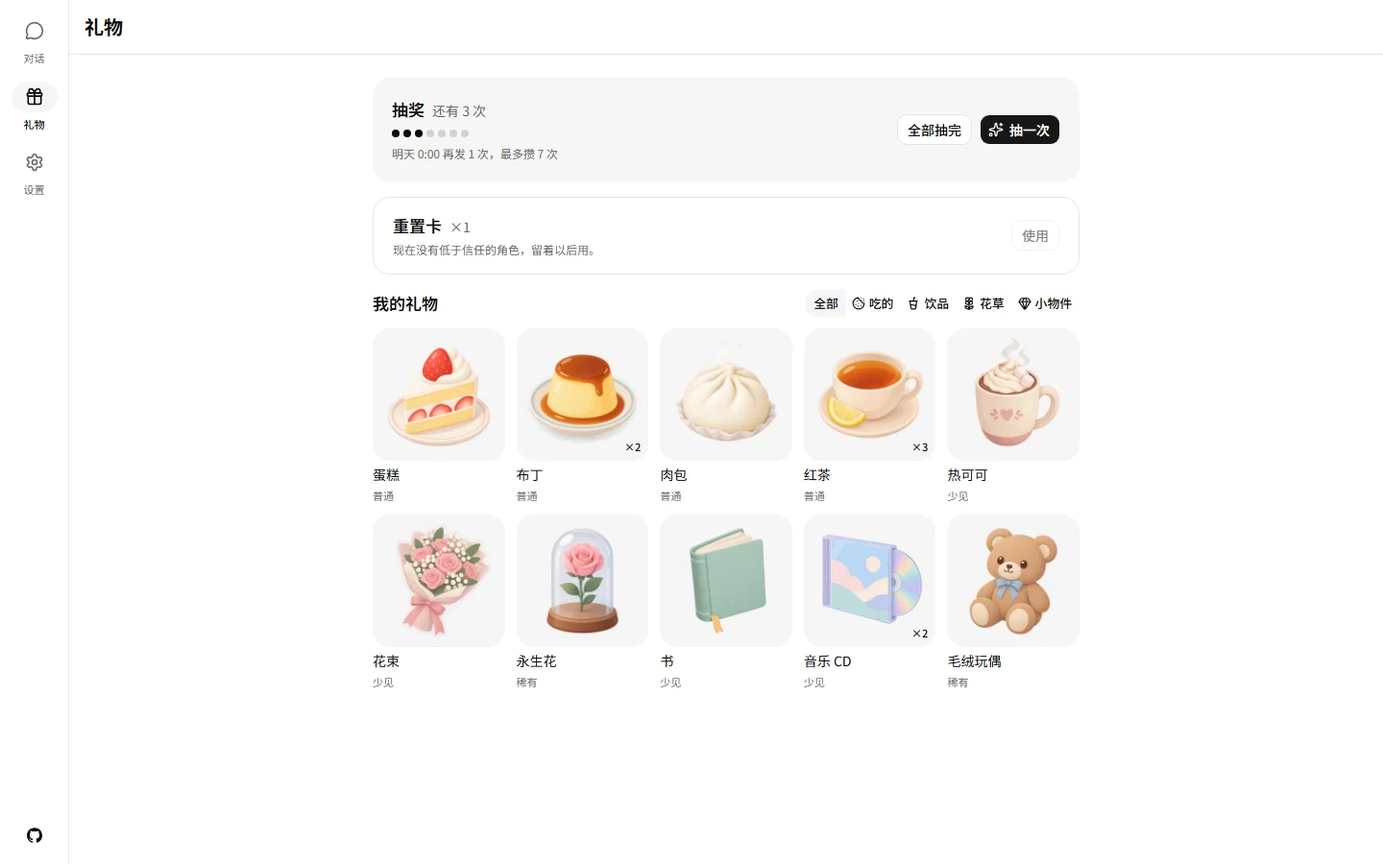
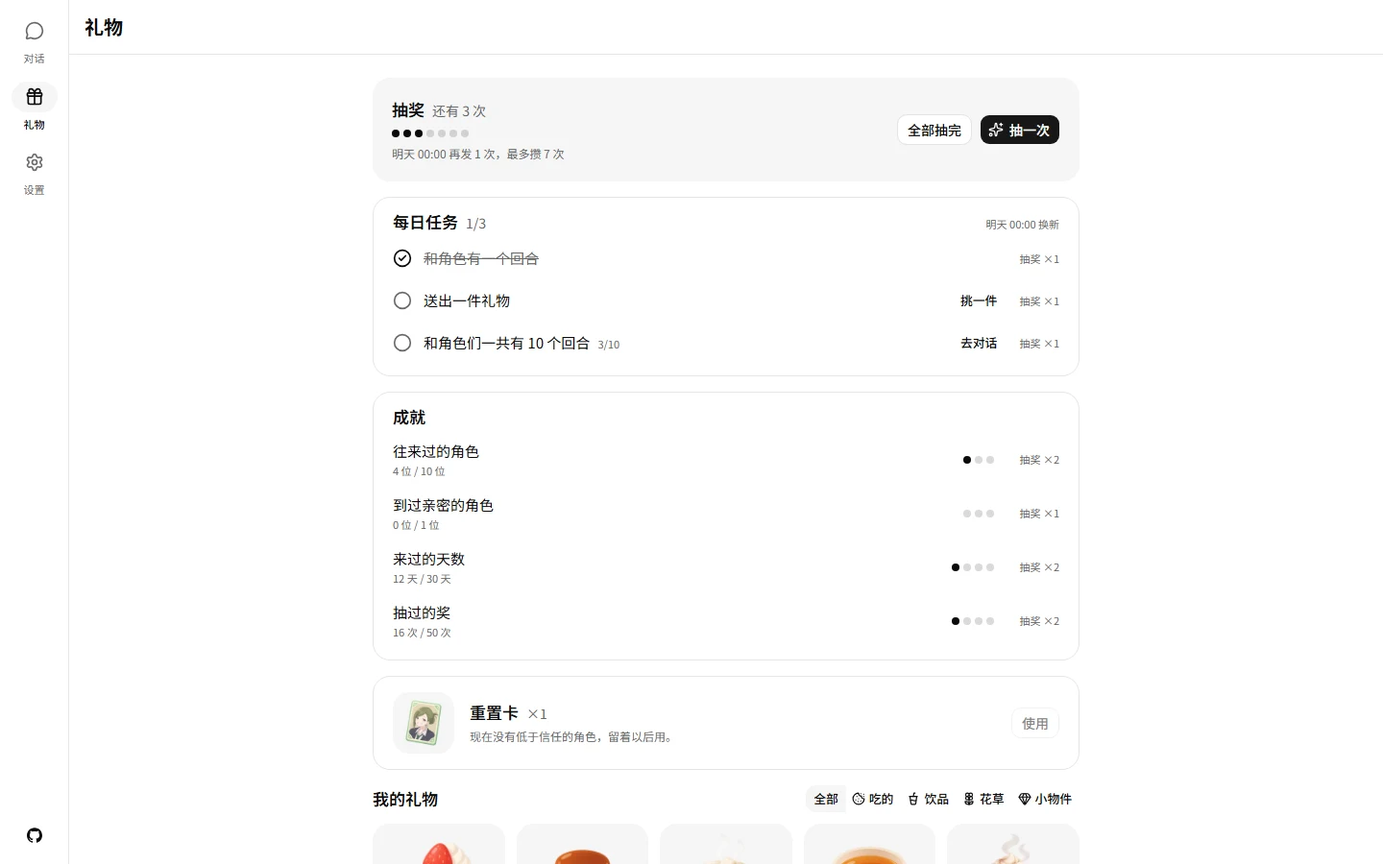
docs(achievements): 隐私政策、使用条款、配置和部署指南、数据包格式、README 三语写上成就，配置页「好感度和礼物」卡说明补一句，词汇表补上线补算的例外；readme-media 给礼物页写固定的每日任务和合起来的成就、拍前记成看过，重拍 gifts.webp；eidolon serve 把 eidolon.happenings 接到 stderr，补算那一行进日志；跨票验收（补算后的点、挂断后时长阶段的点）通过，关票 07（票 07）

diff --git a/frontend/src/i18n/zh.ts b/frontend/src/i18n/zh.ts
@@ -1345,7 +1345,7 @@ export const zh = {
         },
         affinity: {
           title: "好感度和礼物",
-          hint: "需要判断模型：每个回合由它判断制作人的话让好感度怎样变化。关掉时不判断、不显示，冷却也不拦人，每日任务不出现也不记进度；已有的好感度原样留着，再打开接着用。保存后从下一个回合起生效，进行中的通话也是。",
+          hint: "需要判断模型：每个回合由它判断制作人的话让好感度怎样变化。关掉时不判断、不显示，冷却也不拦人，每日任务和成就不出现也不记进度；已有的好感度原样留着，再打开接着用。保存后从下一个回合起生效，进行中的通话也是。",
         },
         reach_outs: {
           title: "搭话",
@@ -1921,11 +1921,11 @@ export const zh = {
           { term: "制作人档案", text: "你设置的称呼、性别、时区和生日（只有月和日）。" },
           { term: "好感度", text: "每位角色对你各有一份好感度，以及有没有在冷却、什么时候解除。你只看得到档位，看不到数值。它不能单独删除，删除记忆也不影响它；删除全部数据时一起删除。" },
           { term: "礼物", text: "你背包里的礼物、重置卡，还有抽奖次数。删除全部数据时一起删除。" },
-          { term: "每日任务", text: "今天每日任务做到哪了，以及做完时抽奖次数的到账记录。删除历史对话不影响它，也不进数据包；删除全部数据时一起删除。" },
+          { term: "每日任务和成就", text: "今天每日任务做到哪了，每个成就的累计进度和解锁了哪些阶段，以及它们给的抽奖次数和重置卡的到账记录。删除历史对话不影响它们，也不进数据包；删除全部数据时一起删除。" },
           { term: "搭话", text: "你在设置里的「搭话」开关，以及你看过哪些搭话。" },
           { term: "自带密钥", text: "如果你填了自己的 API key，它只保存在你的浏览器里，我们不保存；每次回合或通话时随请求发给服务器，只在处理期间留在内存里，不写入数据库、日志或备份。" },
           { term: "登录状态和限额的计数", text: "让你在各台设备上保持登录的状态，以及最近 24 小时内你发起回合和通话的次数、收到照片的张数（用于限额）。" },
-          { term: "运行记录", text: "每个回合、每次通话和每次搭话是和哪位角色、什么时候、结果如何（成功、失败、被拒绝等）、通话的时长和结束原因（包括角色挂断），判断模型对每个回合的判断结果（这句话让角色开心、不舒服还是没有影响，有没有判为不该说的话或操纵，有没有因此进入冷却），以及其中用了哪些服务和模型、是否用了自带密钥、用量（例如 token 数）、有没有出错和花了多久；角色发照片时，还记下描述照片的 tag 里有几个因为越界被剥掉、各属于哪一类（不记 tag 本身）；搭话还记下你有没有回；做完一项每日任务时，记下是哪一项。不含你说的话和角色的回复，不记密钥，也不记自带 LLM 的服务地址和模型名。满 90 天自动删除。" },
+          { term: "运行记录", text: "每个回合、每次通话和每次搭话是和哪位角色、什么时候、结果如何（成功、失败、被拒绝等）、通话的时长和结束原因（包括角色挂断），判断模型对每个回合的判断结果（这句话让角色开心、不舒服还是没有影响，有没有判为不该说的话或操纵，有没有因此进入冷却），以及其中用了哪些服务和模型、是否用了自带密钥、用量（例如 token 数）、有没有出错和花了多久；角色发照片时，还记下描述照片的 tag 里有几个因为越界被剥掉、各属于哪一类（不记 tag 本身）；搭话还记下你有没有回；做完一项每日任务时，记下是哪一项；解锁一个成就阶段或集齐一位角色时，记下是哪个阶段、哪位角色。不含你说的话和角色的回复，不记密钥，也不记自带 LLM 的服务地址和模型名。满 90 天自动删除。" },
           { term: "备份", text: "以上数据每天加密备份一次，存放在部署者的私有云存储里，每份保留 30 天，用于服务器出故障时恢复。" },
         ],
         notes: [],
@@ -1947,7 +1947,7 @@ export const zh = {
         title: "管理者能看到什么",
         items: [
           { term: "能看到", text: "你的登录方式（Google 或 GitHub、显示名和邮箱）、注册和最后活跃的时间、最近 24 小时到 30 天的回合和通话次数（包括被限额拒绝的）、你的用量里有多少用的是自带密钥、是否被封禁（以及封禁时管理者写的备注），以及有没有单独的限额。" },
-          { term: "看不到", text: "你和角色的对话、她发给你的照片和描述照片的 tag、角色记下的记忆、你的制作人档案，各位角色对你的好感度和冷却，以及你的礼物、重置卡、抽奖次数和每日任务；好感度只能看到所有用户合起来的统计，管理者也不能调整某一位用户的好感度。" },
+          { term: "看不到", text: "你和角色的对话、她发给你的照片和描述照片的 tag、角色记下的记忆、你的制作人档案，各位角色对你的好感度和冷却，以及你的礼物、重置卡、抽奖次数、每日任务和成就；好感度只能看到所有用户合起来的统计，管理者也不能调整某一位用户的好感度。" },
         ],
         notes: [
           "管理者是部署者指定的少数几位用户，在只有他们能进入的后台里管理这个网站。运行记录还会汇总成全站的统计，用来查看各项服务是否正常、有多少人在用、大约花了多少钱。",
@@ -1980,7 +1980,7 @@ export const zh = {
       { term: "不保证一直可用", text: "服务由个人部署和负担费用，可能随时调整限额、暂停或关闭，数据也可能因故丢失。" },
       { term: "年满 13 岁", text: "你需要年满 13 岁才能使用。" },
       { term: "不要滥用", text: "请不要用它做违法的事，或刻意刷用量；管理者可以封禁这样的用户，或单独收紧他的限额。" },
-      { term: "玩法：好感度、冷却和礼物", text: "角色对你的好感度会随你说的话升降：好好对她，她会更亲近你；冒犯她，她会疏远你，好感度跌到底时她会暂时不和你说话，这段时间叫冷却，通话中她也会挂断电话；一次通话里说了两次不该说的话（性骚扰、辱骂、威胁等），她同样会挂断。这些都是玩法的一部分，由 AI 根据你说的话判断，可能误判。冷却最长 24 小时，到时自动解除，不是封禁，也不是限额；管理者不会人工调整任何人的好感度或冷却。礼物、重置卡和抽奖次数只是应用里的玩法物品，没有现金价值，不能转让或交易；服务调整或关闭时，它们可能随之消失。每日任务给的抽奖次数也一样；任务的内容和奖励可能调整，已经得到的不收回。" },
+      { term: "玩法：好感度、冷却和礼物", text: "角色对你的好感度会随你说的话升降：好好对她，她会更亲近你；冒犯她，她会疏远你，好感度跌到底时她会暂时不和你说话，这段时间叫冷却，通话中她也会挂断电话；一次通话里说了两次不该说的话（性骚扰、辱骂、威胁等），她同样会挂断。这些都是玩法的一部分，由 AI 根据你说的话判断，可能误判。冷却最长 24 小时，到时自动解除，不是封禁，也不是限额；管理者不会人工调整任何人的好感度或冷却。礼物、重置卡和抽奖次数只是应用里的玩法物品，没有现金价值，不能转让或交易；服务调整或关闭时，它们可能随之消失。每日任务和成就给的抽奖次数和重置卡也一样；任务和成就的内容、门槛和奖励可能调整，已经得到的不收回。" },
       { term: "自带密钥", text: "你填进来的自己的 API key（LLM、语音合成、语音识别、生图都算），由你自己遵守那项服务的条款，包括它对年龄和用途的要求。" },
     ],
     seePrivacy: "数据怎样保存和处理，见{privacy}。",

diff --git a/backend/src/eidolon/__main__.py b/backend/src/eidolon/__main__.py
@@ -163,11 +163,12 @@ def _serve() -> int:
 
     # Which settings the admin console overrides, for a deployer wondering why `.env`'s
     # did not take (ADR-0013), and what the backups begun from it did, which is not in
-    # `logs/db-backup.log`, and the photo tags the tag table does not know, for the deployer to
-    # add to the rewrite table; nothing configures the root logger to show any of them.
+    # `logs/db-backup.log`, the photo tags the tag table does not know, for the deployer to
+    # add to the rewrite table, and what the achievements' launch gave (deploy.md「升级」);
+    # nothing configures the root logger to show any of them.
     to_stderr = logging.StreamHandler()
     to_stderr.setFormatter(logging.Formatter("%(levelname)s: %(message)s"))
-    for name in ["eidolon.live_config", "eidolon.backup", "eidolon.photo_prompt"]:
+    for name in ["eidolon.live_config", "eidolon.backup", "eidolon.photo_prompt", "eidolon.happenings"]:
         logging.getLogger(name).addHandler(to_stderr)
         logging.getLogger(name).setLevel(logging.INFO)
 

diff --git a/docs/configuration.ja.md b/docs/configuration.ja.md
@@ -342,7 +342,8 @@ flowchart LR
 - **話し方**：信任より下では冷たかったりすねたりし、上ではよりくつろいで、胸の内を話してくれるようになります。どちらも彼女自身の性格どおりに表れます。彼女は数値も段階も知らず、口にもしません。
 - **クールダウン**：好感度が底まで落ちるとクールダウンが始まり、ユーザーはしばらくそのアイドルとターンも通話も始められません（409 が返り、利用上限には数えません）。最長 24 時間で自動的に解除されます。通話中のターンでクールダウンに入ったとき、または 1 回の通話で 2 度目の「言ってはいけないこと」を言ったとき、彼女はその一言を言い終えてから電話を切ります。別の会話でクールダウンに入った場合も、進行中の通話は切られます。クールダウンは利用停止ではなく、管理者が特定のユーザーの好感度を調整することもできません。
 - **デイリータスク**：プレゼント画面の「每日任务」（デイリータスク）には毎日同じ 3 つがあります。どのアイドルとでもターンが 1 回、プレゼントを 1 つ贈る、アイドルたちと合わせて 10 ターン。それぞれ抽選回数が 1 回もらえ、北京時間の 0 時に新しくなり、終わらなかったものはなくなります。通話中のターンも、自前のキーを使ったターンも数えます。この回数は毎日配られる分の「7 回まで」の上限を受けません。3 つの内容と数値はコードで決めていて（[`backend/src/eidolon/happenings.py`](../backend/src/eidolon/happenings.py) の `DAILY_TASKS`）、管理画面に設定はありません。
-- **オフのとき**：判断も表示もせず、クールダウンで止めることもしません。それまでの好感度はそのまま残り、オンに戻すと経過した時間の分を取り戻します。プレゼント画面には「礼物暂时没有开放」（プレゼントはまだ開放されていません）と表示され、抽選・プレゼント・リセットカードは使えません。持っているプレゼント・リセットカード・抽選回数はそのまま残ります。オフの日は抽選回数が配られず、オンに戻った日に 1 回配られます。デイリータスクは表示されず、進み具合も記録しません。
+- **実績**：アイドルごとに 4 つあります。そのアイドルとのターン数、通話の累計時間、贈ったプレゼントの数、好感度が親しい・親密に届いたか。アイドルたちを合わせたものがほかに 4 つあります。何人のアイドルとやり取りしたか、親密に届いたのが何人か、何日来たか（ターンかプレゼントのあった日を北京時間で数えます）、何回抽選したか。実績はそれぞれいくつかの段階に分かれ、第 n 段階で抽選回数が n 回もらえます。あるアイドルの 4 つの実績の段階がすべて解放されるとコンプリートで、リセットカードが 1 枚もらえます（アイドルごとに 1 回だけ）。実績を加えるアップグレードでは、起動時に既存の記録から一度だけさかのぼって計算します（[`deploy.md`](deploy.md#升级)（中国語）の「升级」を参照）。実績・条件・報酬はコードで決めていて（[`backend/src/eidolon/achievements.py`](../backend/src/eidolon/achievements.py) の `PER_CHARACTER`、`ALL_CHARACTERS`）、数値はコードが正です。管理画面に設定はありません。
+- **オフのとき**：判断も表示もせず、クールダウンで止めることもしません。それまでの好感度はそのまま残り、オンに戻すと経過した時間の分を取り戻します。プレゼント画面には「礼物暂时没有开放」（プレゼントはまだ開放されていません）と表示され、抽選・プレゼント・リセットカードは使えません。持っているプレゼント・リセットカード・抽選回数はそのまま残ります。オフの日は抽選回数が配られず、オンに戻った日に 1 回配られます。デイリータスクと実績は表示されず、進み具合も記録しません。
 - **費用**：好感度の質問は検索の判断と同じリクエストで尋ね（検索がオフなら別に 1 回尋ねます）、判断 1 回あたりの入力が Jev で約 1,080 トークン、Clef と Clef-flash で約 820 トークン増えます。そのため Clef-flash の 1 日の無料枠は約 2,000 回から約 860 回に、Clef は約 750 回から約 320 回に減ります。判断は常にデプロイした人の負担で、ユーザーの利用上限には数えません。抽選とプレゼントはどのモデルも呼ばないので、費用は増えず、利用上限にも数えません。
 - **リセットカードの配布**：判断モデルの誤判断の埋め合わせとして、管理者は管理画面の設定ページの「好感度和礼物」カードから、既存のユーザー全員にリセットカードを 1 枚ずつ配れます。あとから登録したユーザーにはもらえず、配ったカードは取り消せません。管理者が特定のユーザーの好感度・プレゼント・抽選回数を調整することはできません。
 - **しきい値**：「言ってはいけないこと」と「操作」の 2 問のしきい値はモデルごとにコードで決めていて、管理画面の設定ページの「判断模型的阈值」（判断モデルのしきい値）でも変えられます。
@@ -511,13 +512,13 @@ EIDOLON_STATUS_WINDOW_MINUTES=30
 
 | ページ | できること |
 |---|---|
-| ダッシュボード（`/admin`） | サービスごとの呼び出し回数・エラー率・レイテンシ、アクティブユーザー・ターン・通話の数と推移、アイドルごとの利用量、進行中の通話、好感度がオンなら判断結果とクールダウンの合計、アイドルごとの加点・減点の割合、クールダウン、アイドルが切った通話や終えた会話の数、デイリータスク 3 つそれぞれの達成回数、声かけがオンならその回数・失敗数・返事をもらえた割合、単価にもとづくデプロイした人の推定費用 |
+| ダッシュボード（`/admin`） | サービスごとの呼び出し回数・エラー率・レイテンシ、アクティブユーザー・ターン・通話の数と推移、アイドルごとの利用量、進行中の通話、好感度がオンなら判断結果とクールダウンの合計、アイドルごとの加点・減点の割合、クールダウン、アイドルが切った通話や終えた会話の数、「每日任务和成就」（デイリータスクと実績）として、デイリータスク 3 つそれぞれの達成回数、解放された実績の段階の数、それで配られた抽選回数とリセットカード、声かけがオンならその回数・失敗数・返事をもらえた割合、単価にもとづくデプロイした人の推定費用 |
 | 設定（`/admin/config`） | アイドルを演じる LLM とメモリー抽出用の LLM、音声合成、音声認識、画像生成、判断モデル、並べ替えのしきい値、利用上限、上限対象外のキー、1 回の通話の上限、履歴ターン数、好感度とプレゼントのオン・オフ（とユーザー全員へのリセットカードの配布）、声かけのオン・オフと 1 日の上限、ネットワークプロキシ、サービス状況、単価を変更 |
 | ユーザー（`/admin/users`） | ユーザーを検索し、ログイン方法と最近の利用量を表示。利用停止・解除・個別の利用上限・削除 |
 
 - **`.env` より優先**：管理画面で変更した項目はデータベースに保存され、`.env` より優先されます。再起動は不要です。保存前に一度試し、失敗したら保存しません。進行中の通話は、つながったときの設定のまま最後まで続きます。
 - **`.env` でしか変えられないもの**：管理者名簿、`EIDOLON_SECRET_KEY`、OAuth、ドメイン、WebRTC/TURN、バックアップ、パス、ベクトル化。
-- **見られないもの**：管理画面では誰の会話・メモリー・プロデューサープロフィール・好感度・プレゼント・抽選回数・デイリータスクも見られず、ダッシュボードにはすべてのユーザーを合わせた統計しかありません。ダッシュボードの数字は運用記録（会話の内容は含まない）にもとづき、90 日間保存されます。
+- **見られないもの**：管理画面では誰の会話・メモリー・プロデューサープロフィール・好感度・プレゼント・抽選回数・デイリータスク・実績も見られず、ダッシュボードにはすべてのユーザーを合わせた統計しかありません。ダッシュボードの数字は運用記録（会話の内容は含まない）にもとづき、90 日間保存されます。
 
 有効にする手順と、管理画面に入れないときの対処は [`deploy.md`](deploy.md)（中国語）の「后台」を参照してください。
 

diff --git a/docs/configuration.en.md b/docs/configuration.en.md
@@ -342,7 +342,8 @@ Gifts share affinity's switch. Each day at midnight Beijing time (wherever the u
 - **How she talks**: Below trusting she's cold or sulky; above it she's more relaxed and more willing to share what's on her mind, each in her own character. She neither knows nor says the number or the tier.
 - **Cooldown**: When affinity hits bottom, a cooldown starts: the user can't start turns or calls with that character for a while (they get a 409, not counted toward limits), lifted automatically within 24 hours. If a turn in a call sends her into cooldown, or the user says something out of line for the second time in one call, she finishes her line and hangs up; a cooldown started in another conversation also hangs up a call in progress. A cooldown is not a ban, and admins can't adjust any user's affinity.
 - **Daily tasks**: The gifts page's 「每日任务」 (Daily tasks) has the same three every day: one turn with any character, giving one gift, and 10 turns in all across characters. Each gives one draw; they renew at midnight Beijing time, and unfinished ones lapse. Turns in calls and turns on the user's own keys both count. These draws aren't held to the daily draw's cap of saving up to 7. The three and their numbers are set in code (`DAILY_TASKS` in [`backend/src/eidolon/happenings.py`](../backend/src/eidolon/happenings.py)); the admin console has no setting for them.
-- **When off**: Nothing is judged or shown, and cooldowns don't block anyone. Existing affinity is kept as is; when switched back on, it catches up on the time that passed. The gifts page says gifts aren't open yet, and nothing can be drawn, given or reset; gifts, reset cards and draws already held are kept as they are. No draws are given while it's off, and one is given the day it's back on. Daily tasks don't show, and nothing counts toward them.
+- **Achievements**: Each character has four of her own: turns with her, total time talking with her in calls, gifts given her, and her affinity having reached close and intimate. Four more count all characters together: how many characters the user has talked with, how many have reached intimate, how many days they came (a day with a turn or a gift given, counted in Beijing time), and how many times they drew. Each achievement has several stages, and stage n gives n draws. When every stage of a character's four achievements is unlocked, her set is complete, which gives one reset card, once per character. The upgrade that adds achievements works them out once from existing records as it starts (see "升级" in [`deploy.md`](deploy.md#升级), Chinese). The achievements, thresholds and rewards are set in code (`PER_CHARACTER` and `ALL_CHARACTERS` in [`backend/src/eidolon/achievements.py`](../backend/src/eidolon/achievements.py)), which is the source of truth for the numbers; the admin console has no setting for them.
+- **When off**: Nothing is judged or shown, and cooldowns don't block anyone. Existing affinity is kept as is; when switched back on, it catches up on the time that passed. The gifts page says gifts aren't open yet, and nothing can be drawn, given or reset; gifts, reset cards and draws already held are kept as they are. No draws are given while it's off, and one is given the day it's back on. Daily tasks and achievements don't show, and nothing counts toward them.
 - **Cost**: The affinity questions ride along in the retrieval judgement (asked separately when retrieval is off), adding about 1,080 input tokens per judgement on Jev and 820 on Clef and Clef-flash. That cuts Clef-flash's free allocation from about 2,000 judgements a day to about 860, and Clef's from about 750 to about 320. The deployer always pays for judging; it doesn't count toward users' limits. Drawing and giving gifts call no model, cost nothing, and don't count toward limits.
 - **Granting reset cards**: To make up for the judge's mistakes, admins can give every existing user one reset card from the 「好感度和礼物」 card on the admin console's config page. Users who sign up later don't get one, and cards can't be taken back once given. Admins can't adjust any one user's affinity, gifts or draws.
 - **Thresholds**: The thresholds for the out-of-line and manipulation questions are set per model in code, and can be changed in 「判断模型的阈值」 (Judge thresholds) on the admin console's config page.
@@ -511,13 +512,13 @@ List the admins' sign-in method identifiers in `EIDOLON_ADMINS` in `.env` (like 
 
 | Page | What it does |
 |---|---|
-| Dashboard (`/admin`) | Calls, error rate and latency per service; active users, the number and trend of turns and calls, usage per character, calls in progress; with affinity on, totals of judgements and cooldowns, plus per character the shares raised and lowered, cooldowns, and the calls she hung up or conversations she ended, as well as how many times each of the three daily tasks was done; with reach-outs on, how many there were, how many failed and the share answered; the deployer's cost estimated from unit prices |
+| Dashboard (`/admin`) | Calls, error rate and latency per service; active users, the number and trend of turns and calls, usage per character, calls in progress; with affinity on, totals of judgements and cooldowns, plus per character the shares raised and lowered, cooldowns, and the calls she hung up or conversations she ended, as well as 「每日任务和成就」 (Daily tasks and achievements): how many times each of the three daily tasks was done, how many achievement stages were unlocked, and the draws and reset cards they gave; with reach-outs on, how many there were, how many failed and the share answered; the deployer's cost estimated from unit prices |
 | Config (`/admin/config`) | Change the LLMs for playing the character and extracting memories, speech synthesis, speech recognition, image generation, the judge, rerank thresholds, usage limits, exempting keys, per-call caps, history turns, the affinity and gifts switch (and granting every user a reset card), the reach-outs switch and daily limit, the proxy, the service status and unit prices |
 | Users (`/admin/users`) | Search users, see their sign-in methods and recent usage; ban, unban, set an individual usage limit, delete |
 
 - **Overrides `.env`**: Items changed in the admin console are stored in the database and take precedence over `.env`, with no restart needed. Each change is tried before saving and not saved if the try fails. A call in progress finishes on the configuration it connected with.
 - **Only changeable in `.env`**: The admin list, `EIDOLON_SECRET_KEY`, OAuth, the domain, WebRTC/TURN, backups, paths and embedding.
-- **Not visible**: The admin console shows no one's conversations, memories, producer profile, affinity, gifts, draws or daily tasks; the dashboard only has totals across all users. The dashboard's numbers come from activity records (which hold no conversation content), kept for 90 days.
+- **Not visible**: The admin console shows no one's conversations, memories, producer profile, affinity, gifts, draws, daily tasks or achievements; the dashboard only has totals across all users. The dashboard's numbers come from activity records (which hold no conversation content), kept for 90 days.
 
 For how to turn it on and what to do when you can't get into the admin console, see "后台" in [`deploy.md`](deploy.md) (Chinese).
 

diff --git a/.scratch/achievements/issues/07-public-docs-screenshot-and-acceptance.md b/.scratch/achievements/issues/07-public-docs-screenshot-and-acceptance.md
@@ -4,18 +4,18 @@
 
 **Blocked by:** 02, 03, 04, 05, 06
 
-**Status:** ready-for-agent
+**Status:** done
 
-- [ ] 配置页「好感度和礼物」卡的说明补上它也管成就；不加设置
-- [ ] 隐私政策：「每日任务」那一条改名「每日任务和成就」，补上每个成就的累计进度和解锁了哪些阶段，删除历史对话不影响、不进数据包、删除全部数据时一起删除；「运行记录」补上解锁了哪个成就阶段；「看不到」那一条补上成就；改「最后更新」日期
-- [ ] 使用条款：末尾那句改成每日任务和成就给的抽奖次数和重置卡也一样；内容、门槛和奖励可能调整，已经得到的不收回；改「最后更新」日期
-- [ ] `docs/configuration.md` 三语：「好感度和礼物」一节加「成就」一条（八个成就的大意、第 n 阶段 n 次抽奖、集齐给重置卡、上线时补算一次，数值以代码为准）；「关掉时」补上成就；后台表格看板一行改成「每日任务和成就」；「看不到的」加上成就
-- [ ] `docs/deploy.md`：后台一段补上看不到某位用户的成就；部署一节提一句这次上线会补算一次、部署前备份
-- [ ] `docs/data-package-format.md`：「不在数据包里」加上成就进度
-- [ ] README 三语那半句改成「做每日任务、解锁成就能多得抽奖次数」（英、日对应）；落地页不提
-- [ ] 用 `frontend/scripts/screenshots.mts` 重拍 `docs/images/gifts.webp`，带上每日任务和成就两节；图注不改或只改到能概括新内容
-- [ ] 中文先写，用 humanizer-zh 过一遍再删减；英文、日文照中文定稿翻
-- [ ] 跨票验收（本地构建版、Playwright、`docs/agents/local-acceptance.md`）：往库里塞老记录后重启跑补算，导航「礼物」上和她对话页的更多菜单上出点、点开消失；通话挂断后过一会儿时长阶段在导航和她的更多菜单上出点（能造就造，造不出来的列进人工验证清单）
+- [x] 配置页「好感度和礼物」卡的说明补上它也管成就；不加设置
+- [x] 隐私政策：「每日任务」那一条改名「每日任务和成就」，补上每个成就的累计进度和解锁了哪些阶段，删除历史对话不影响、不进数据包、删除全部数据时一起删除；「运行记录」补上解锁了哪个成就阶段；「看不到」那一条补上成就；改「最后更新」日期
+- [x] 使用条款：末尾那句改成每日任务和成就给的抽奖次数和重置卡也一样；内容、门槛和奖励可能调整，已经得到的不收回；改「最后更新」日期
+- [x] `docs/configuration.md` 三语：「好感度和礼物」一节加「成就」一条（八个成就的大意、第 n 阶段 n 次抽奖、集齐给重置卡、上线时补算一次，数值以代码为准）；「关掉时」补上成就；后台表格看板一行改成「每日任务和成就」；「看不到的」加上成就
+- [x] `docs/deploy.md`：后台一段补上看不到某位用户的成就；部署一节提一句这次上线会补算一次、部署前备份
+- [x] `docs/data-package-format.md`：「不在数据包里」加上成就进度
+- [x] README 三语那半句改成「做每日任务、解锁成就能多得抽奖次数」（英、日对应）；落地页不提
+- [x] 用 `frontend/scripts/screenshots.mts` 重拍 `docs/images/gifts.webp`，带上每日任务和成就两节；图注不改或只改到能概括新内容
+- [x] 中文先写，用 humanizer-zh 过一遍再删减；英文、日文照中文定稿翻
+- [x] 跨票验收（本地构建版、Playwright、`docs/agents/local-acceptance.md`）：往库里塞老记录后重启跑补算，导航「礼物」上和她对话页的更多菜单上出点、点开消失；通话挂断后过一会儿时长阶段在导航和她的更多菜单上出点（能造就造，造不出来的列进人工验证清单）
 
 ## Comments
 
@@ -28,3 +28,10 @@
 
 - 礼物页「成就」一小节在每日任务下面（`components/gifts/AchievementsSection.tsx`），开关关着时没有；重拍 `gifts.webp` 时拍的用户要有解锁过的合起来的阶段，四行才不全是空点。截图里的点取决于这台浏览器上下文有没有记过看过（新上下文全带点）。
 - 统计页「成就」一节在好感度分组下面（`GET /api/stats` 的 `achievements`），分享图不带。
+
+### 实现说明（票 07）
+
+- 文档：`zh.ts`（配置页「好感度和礼物」卡说明、隐私政策「每日任务和成就」「运行记录」「看不到」、使用条款末句）、`docs/configuration*.md` 三语加「成就」一条并改「关掉时」、看板一行、「看不到的」，`docs/deploy.md` 后台一段和「升级」里补算一段（抽过几次奖从 0 算起、部署前备份、去日志找 `achievements launched` 那一行），`docs/data-package-format.md`，README 三语那半句和礼物图的 alt，`GLOSSARY.md`「成就」补上补算例外、「数据包」加上成就进度。两份「最后更新」已经是今天（2026-10-20，每日任务那次改的、同一版部署），没再改。
+- 截图用的是 `frontend/scripts/readme-media.mts --only gifts`，不是票里写的 `screenshots.mts`：后者只拍存档 PNG，`docs/images/*.webp` 是前者写的。`stockGifts` 加写今天每日任务的进度（3 个回合）和合起来的「来过几天」「抽过几次奖」各到第 1 阶段；拍前从导航去一趟对话再回来，记成看过，截图不带点。图注不改。
+- 修了票 04 留下的问题：`eidolon serve` 没给 `eidolon.happenings` 挂输出，补算那一行在日志里看不到。现在和 live_config、backup、photo_prompt 一样接到 stderr（`__main__.py`），本地重启补算验过那一行出来了。判断题（未改）：这样 happenings 以后加的 `log.info` 也会进日志；要只放补算那一行，可以给它单开子 logger。
+- 跨票验收在本地构建版上用 Playwright 做完、全部通过（专用用户，验前整份备份开发库、验完还原）：往库里塞 12 条十天前和真乃的回合、删掉补算标记重启，导航「礼物」和她的更多菜单键、菜单项「成就」出点，面板里「和她的回合数」一行带点，关上面板后菜单键不再带点，进过礼物页后导航不再带点；通话累计先垫到 595 秒，接通 15 秒挂断，下一次外壳轮询后菜单键和导航都出点，面板里带点的是「和她通话」。

diff --git a/docs/configuration.md b/docs/configuration.md
@@ -342,7 +342,8 @@ flowchart LR
 - **她怎么说话**：低于信任时冷淡或闹别扭，高于信任时更放松、更愿意说心事，都按她自己的性格表现；她不知道也不说出数值和档位。
 - **冷却**：好感度跌到底时进入冷却，用户暂时不能和这位角色发起回合和通话（得到 409，不计入限额），最长 24 小时自动解除。通话里让她进了冷却，或者一次通话里第 2 次说了不该说的话，她说完这一句就挂断；在别的对话里让她进了冷却，这边正在进行的通话也会被挂断。冷却不是封禁，管理者也不能调整某位用户的好感度。
 - **每日任务**：礼物页上每天同样三项：和角色有一个回合、送出一件礼物、和角色们一共有 10 个回合，各给 1 次抽奖次数，北京时间 0 点换新，没做完的作废。通话里的和用自带密钥的回合都算。这些次数不受每天发放那份「最多攒 7 次」的限制。三项和数值写在代码里（[`backend/src/eidolon/happenings.py`](../backend/src/eidolon/happenings.py) 的 `DAILY_TASKS`），后台没有设置。
-- **关掉时**：不判断、不显示，冷却也不拦人；已有的好感度原样留着，再打开时按经过的时间补算。礼物页显示「礼物暂时没有开放」，不能抽奖、送礼和用重置卡，已有的礼物、重置卡和抽奖次数原样留着；关着的日子不发抽奖次数，重新打开那天发一次。每日任务不出现、不记进度。
+- **成就**：每位角色各有四个：和她的回合数、和她通话的累计时长、送她的礼物件数、她的好感度到过亲近和亲密；所有角色合起来另有四个：往来过几位角色、到过亲密的有几位、来过几天（那天有回合或送过礼，按北京时间划天）、抽过几次奖。每个成就分几个阶段，第 n 阶段给 n 次抽奖次数；一位角色四个成就的阶段全部解锁叫集齐，另给一张重置卡，每位角色只给一次。加上成就的那次升级，启动时会从已有记录补算一次（见 [`deploy.md`](deploy.md#升级)）。成就、门槛和奖励写在代码里（[`backend/src/eidolon/achievements.py`](../backend/src/eidolon/achievements.py) 的 `PER_CHARACTER`、`ALL_CHARACTERS`），数值以代码为准，后台没有设置。
+- **关掉时**：不判断、不显示，冷却也不拦人；已有的好感度原样留着，再打开时按经过的时间补算。礼物页显示「礼物暂时没有开放」，不能抽奖、送礼和用重置卡，已有的礼物、重置卡和抽奖次数原样留着；关着的日子不发抽奖次数，重新打开那天发一次。每日任务和成就不出现、不记进度。
 - **费用**：好感度的题并进检索的那次判断里问（检索没开时单独问一次），每次判断的输入多约 1,080 token（Jev）或 820 token（Clef、Clef-flash）。Clef-flash 每天的免费额度因此从约 2,000 次判断降到约 860 次，Clef 从约 750 次降到约 320 次。判断始终由部署者承担，不计入用户的限额。抽奖和送礼不调用任何模型，不增加费用，也不计入限额。
 - **发重置卡**：判断模型误判时，管理者可以在后台配置页的「好感度和礼物」卡给所有现有用户各发一张重置卡，作为整体补偿；之后注册的用户拿不到，发出后不能收回。管理者不能调整某一位用户的好感度、礼物或抽奖次数。
 - **阈值**：「不该说的话」和「操纵」两道题的阈值按模型写在代码里，也可以在后台配置页「判断模型的阈值」里改。
@@ -511,13 +512,13 @@ EIDOLON_STATUS_WINDOW_MINUTES=30
 
 | 页面 | 做什么 |
 |---|---|
-| 看板（`/admin`） | 按服务看调用次数、出错率和延迟；活跃用户、回合和通话的数量与趋势、每位角色的用量、进行中的通话；好感度开着时，判断结果和冷却的合计，以及按角色的加分、减分、冷却和她挂断或结束对话的次数，还有每日任务三项各做完几次；搭话开着时，搭了几次、失败几次、被回的占比；按单价估算部署者的花费 |
+| 看板（`/admin`） | 按服务看调用次数、出错率和延迟；活跃用户、回合和通话的数量与趋势、每位角色的用量、进行中的通话；好感度开着时，判断结果和冷却的合计，以及按角色的加分、减分、冷却和她挂断或结束对话的次数，还有「每日任务和成就」：每日任务三项各做完几次、解锁了几个成就阶段、因此发出几次抽奖和几张重置卡；搭话开着时，搭了几次、失败几次、被回的占比；按单价估算部署者的花费 |
 | 配置（`/admin/config`） | 修改扮演角色的 LLM 和后台模型、语音合成、语音识别、生图、判断模型、重排阈值、限额、免限额密钥、单次通话上限、历史回合数、好感度和礼物的开关（以及给所有用户发重置卡）、搭话的开关和每天上限、网络代理、服务状态和单价 |
 | 用户（`/admin/users`） | 搜索用户，看登录方式和近期用量；封禁、解除封禁、单独设限额、删除 |
 
 - **覆盖 `.env`**：后台改过的项存在数据库里，优先于 `.env`，不用重启。保存前会先试调，试不通就不保存。进行中的通话按接通时的配置打完。
 - **只能在 `.env` 里改的**：管理者名单、`EIDOLON_SECRET_KEY`、OAuth、域名、WebRTC/TURN、备份、路径和向量化。
-- **看不到的**：后台看不到任何人的对话、记忆、制作人档案、好感度、礼物、抽奖次数和每日任务，看板只有所有用户合起来的统计。看板的数字来自运行记录（不含对话内容），保留 90 天。
+- **看不到的**：后台看不到任何人的对话、记忆、制作人档案、好感度、礼物、抽奖次数、每日任务和成就，看板只有所有用户合起来的统计。看板的数字来自运行记录（不含对话内容），保留 90 天。
 
 开启步骤、后台进不去时怎么办，见 [`deploy.md`](deploy.md) 的「后台」。
 

diff --git a/GLOSSARY.md b/GLOSSARY.md
@@ -111,7 +111,7 @@ _Avoid_: 游客、路人、未登录用户
 _Avoid_: 快照、存档、归档、dump
 
 **数据包 (Data Package)**:
-用户从设置里导出的、属于他自己的数据，可以导入到这个或别的部署，在那里接着用；导入时并进那位用户已有的数据，不覆盖，只有制作人档案是勾了就整份换掉。只带在别处也能接着用、改了也只影响他自己的东西：好感度、礼物、抽奖次数、重置卡和每日任务的进度只能在这个部署里挣来，不在数据包里；登录方式、只存在设备上的设置也不在里面。和备份不同：备份是部署者的、整个数据库的，用户看不到。
+用户从设置里导出的、属于他自己的数据，可以导入到这个或别的部署，在那里接着用；导入时并进那位用户已有的数据，不覆盖，只有制作人档案是勾了就整份换掉。只带在别处也能接着用、改了也只影响他自己的东西：好感度、礼物、抽奖次数、重置卡、每日任务和成就的进度只能在这个部署里挣来，不在数据包里；登录方式、只存在设备上的设置也不在里面。和备份不同：备份是部署者的、整个数据库的，用户看不到。
 _Avoid_: 备份、存档、归档、快照、dump
 
 **制作人 (Producer)**:
@@ -340,7 +340,7 @@ _Avoid_: 礼物、道具、和好卡、重置券
 _Avoid_: 日常、每日委托、签到、今日偶像
 
 **成就 (Achievement)**:
-制作人和角色们往来累积到一定程度时解锁的目标，比如和某位角色的回合数、和她通话的时长、送她的礼物、她的好感度到过的档位，或者往来过几位角色、来过几天（按北京时间划天）、抽过几次奖。有的按某一位角色算，每位角色各有一套；有的按所有角色合起来算。一个成就分几个阶段，每个阶段解锁一次，解锁了就一直在；解锁时自动得到抽奖次数，越往后的阶段给得越多，不用领取。某位角色按角色算的阶段全部解锁叫集齐这位角色，集齐时另得一张重置卡。只算发生时记下的事，之后删掉历史对话不会让解锁的收回、也不会让进度倒退，导入的数据包不算。好感度档位类的到过就算，之后掉下来也不收回。统计里的成就一节照成就算，不像统计别的部分那样删了就少。成就是系统记下的事，她不知道，解锁不留对话事件。跟着好感度和礼物走：没有判断模型、或者部署者关掉了的部署里没有成就，关着期间发生的事也不算。
+制作人和角色们往来累积到一定程度时解锁的目标，比如和某位角色的回合数、和她通话的时长、送她的礼物、她的好感度到过的档位，或者往来过几位角色、来过几天（按北京时间划天）、抽过几次奖。有的按某一位角色算，每位角色各有一套；有的按所有角色合起来算。一个成就分几个阶段，每个阶段解锁一次，解锁了就一直在；解锁时自动得到抽奖次数，越往后的阶段给得越多，不用领取。某位角色按角色算的阶段全部解锁叫集齐这位角色，集齐时另得一张重置卡。只算发生时记下的事，之后删掉历史对话不会让解锁的收回、也不会让进度倒退，导入的数据包不算。好感度档位类的到过就算，之后掉下来也不收回。统计里的成就一节照成就算，不像统计别的部分那样删了就少。成就是系统记下的事，她不知道，解锁不留对话事件。跟着好感度和礼物走：没有判断模型、或者部署者关掉了的部署里没有成就，关着期间发生的事也不算；只有成就上线时从已有记录补算的那一次例外，那一次把之前导入的、关着期间留下的记录也都算了进去。
 _Avoid_: 奖杯、徽章、称号、里程碑、羁绊
 
 **对话事件 (Conversation Event)**:

diff --git a/docs/deploy.md b/docs/deploy.md
@@ -496,7 +496,7 @@ uv run eidolon reading draft
 
 ## 后台
 
-后台是同一个网站上的 `/admin`，只有管理者能进入（ADR-0013）：看板（各项服务是否正常、用量、估算的花费）、配置（模型、key、限额、单价）和用户（搜索、封禁、单独限额、删除）。管理者在后台里看不到任何用户的对话、记忆和制作人档案，也看不到、改不了某位用户的好感度、礼物、抽奖次数和每日任务，只能看到所有用户合起来的统计；判断模型误判时，可以在配置页给所有现有用户各发一张重置卡（见[配置指南](configuration.md#好感度和礼物)）。其他人看不到入口，访问 `/admin` 和后台接口都得到 404。
+后台是同一个网站上的 `/admin`，只有管理者能进入（ADR-0013）：看板（各项服务是否正常、用量、估算的花费）、配置（模型、key、限额、单价）和用户（搜索、封禁、单独限额、删除）。管理者在后台里看不到任何用户的对话、记忆和制作人档案，也看不到、改不了某位用户的好感度、礼物、抽奖次数、每日任务和成就，只能看到所有用户合起来的统计；判断模型误判时，可以在配置页给所有现有用户各发一张重置卡（见[配置指南](configuration.md#好感度和礼物)）。其他人看不到入口，访问 `/admin` 和后台接口都得到 404。
 
 ### 开启后台
 
@@ -581,6 +581,8 @@ docker compose -f docker-compose.prod.yml up -d
 ```
 
 `git pull` 不能省：人设、`deploy/` 下的脚本和 compose 配置本身都来自仓库，不在镜像里。
+
+加上成就的那次升级，新版本启动时会补算一次：从已有的回合、通话、送礼和好感度记录算出每位用户已经到了哪些成就阶段，把抽奖次数和重置卡发到账上；抽过几次奖以前没有记，从 0 算起。不管「好感度和礼物」开没开都算，只跑这一次。升级前照上面先手动备份；启动后在日志里找 `achievements launched: …` 这一行，看补了多少位用户、多少个阶段、发出多少次抽奖和几张重置卡。
 
 `deploy/Caddyfile` 变了的那次升级（比如加了数据包导入地址的大小上限），`up -d` 不会让 Caddy 重新读它，要再执行一次 `docker compose -f docker-compose.prod.yml restart caddy`。服务器上另有叠加的 Caddyfile 的，同样改过去。
 

diff --git a/README.en.md b/README.en.md
@@ -58,7 +58,7 @@ All **28 idols** from the game's eight units are already set up and ready to tal
       <p align="center"><sub><b>Photos</b>: ask, and she takes one of herself in the moment</sub></p>
     </td>
     <td width="50%">
-      <img src="docs/images/gifts.webp" alt="Gifts page: the draw counter, a reset card and the gifts in the backpack">
+      <img src="docs/images/gifts.webp" alt="Gifts page: the draw counter, daily tasks, achievements, a reset card and the gifts in the backpack">
       <p align="center"><sub><b>Gifts</b>: draw every day, give her the ones she likes</sub></p>
     </td>
   </tr>
@@ -94,7 +94,7 @@ All **28 idols** from the game's eight units are already set up and ready to tal
 - 🇯🇵 **Japanese voice + Chinese subtitles**: She answers in Japanese, keeping her verbal tics, with a Chinese subtitle for every line ([ADR-0001](docs/adr/0001-japanese-replies-with-chinese-subtitles.md)). Proper names are pronounced from a readings table.
 - 🎭 **A living stand**: During a call her Spine stand from the game breathes, blinks, moves her lips and changes expression with her emotion. When the game releases new cards, the weekly sync makes them wearable.
 - 📷 **She sends photos**: Ask, and she takes one of herself in the moment and sends it. All-ages only ([configuration guide](docs/configuration.en.md#photos)).
-- 💗 **Affinity and gifts**: What you say draws her closer or pushes her away; offend her too much and she hangs up, or ends the conversation. Draw gifts every day and give them to her; she responds. Daily tasks earn you extra draws.
+- 💗 **Affinity and gifts**: What you say draws her closer or pushes her away; offend her too much and she hangs up, or ends the conversation. Draw gifts every day and give them to her; she responds. Daily tasks and achievements earn you extra draws.
 - 💌 **She reaches out**: When you've been away a while, she says a few words first in your conversation; the closer you are, the sooner she does ([configuration guide](docs/configuration.en.md#reach-outs)).
 
 **What she remembers**

diff --git a/README.md b/README.md
@@ -58,7 +58,7 @@ Eidolon-SC 让你以 **283 事务所制作人**的身份，和原作中的偶像
       <p align="center"><sub><b>她发照片</b>：开口要，她按自己的样子和当时的情境拍一张</sub></p>
     </td>
     <td width="50%">
-      <img src="docs/images/gifts.webp" alt="礼物页：抽奖台、重置卡和背包里的礼物">
+      <img src="docs/images/gifts.webp" alt="礼物页：抽奖台、每日任务、成就、重置卡和背包里的礼物">
       <p align="center"><sub><b>礼物</b>：每天抽奖，挑她喜欢的送</sub></p>
     </td>
   </tr>
@@ -94,7 +94,7 @@ Eidolon-SC 让你以 **283 事务所制作人**的身份，和原作中的偶像
 - 🇯🇵 **日语原声 + 中文字幕**：她用日语回答，保留口癖，每句附中文字幕（[ADR-0001](docs/adr/0001-japanese-replies-with-chinese-subtitles.md)）；专有名词按读音表念对。
 - 🎭 **会动的立绘**：通话时叠上原作的 Spine 立绘，会呼吸、眨眼、动嘴，随情绪换表情。原作出了新卡，每周同步一次就能穿。
 - 📷 **她发照片**：你开口要，她按自己的样子和当时的情境拍一张发来，只有全年龄的内容（[配置指南](docs/configuration.md#照片)）。
-- 💗 **好感度和礼物**：你说的话会让她亲近或疏远你，冒犯多了她会挂断电话、结束这段对话。每天抽奖得到礼物送给她，她会回应；做每日任务能多得抽奖次数。
+- 💗 **好感度和礼物**：你说的话会让她亲近或疏远你，冒犯多了她会挂断电话、结束这段对话。每天抽奖得到礼物送给她，她会回应；做每日任务、解锁成就能多得抽奖次数。
 - 💌 **搭话**：你一阵子没来，她会在对话里先说几句；越亲近来得越早（[配置指南](docs/configuration.md#搭话)）。
 
 **她记得什么**

diff --git a/docs/data-package-format.md b/docs/data-package-format.md
@@ -143,7 +143,7 @@
 - 这位用户和同一位角色、开始时间相同的对话已经有了，就当成同一段，整段跳过，不逐条合并；包里的记忆引用它时，改成引用已有的那段。
 - 其余的换新 id 加进去，带来的搭话算看过（`GLOSSARY.md`「没看过的搭话」）。当前对话照旧是最新开始的那段：在这个部署上新聊的仍是当前对话，导入的进历史对话；被她结束的仍是已结束。
 - 送礼事件里的礼物不在这个部署的礼物表里的，这一条跳过。
-- 好感度、抽奖次数、重置卡、礼物背包和每日任务的进度都不在数据包里，导入不碰（ADR-0025）。
+- 好感度、抽奖次数、重置卡、礼物背包、每日任务和成就的进度都不在数据包里，导入不碰（ADR-0025）。
 
 ### `memories`：记忆
 
